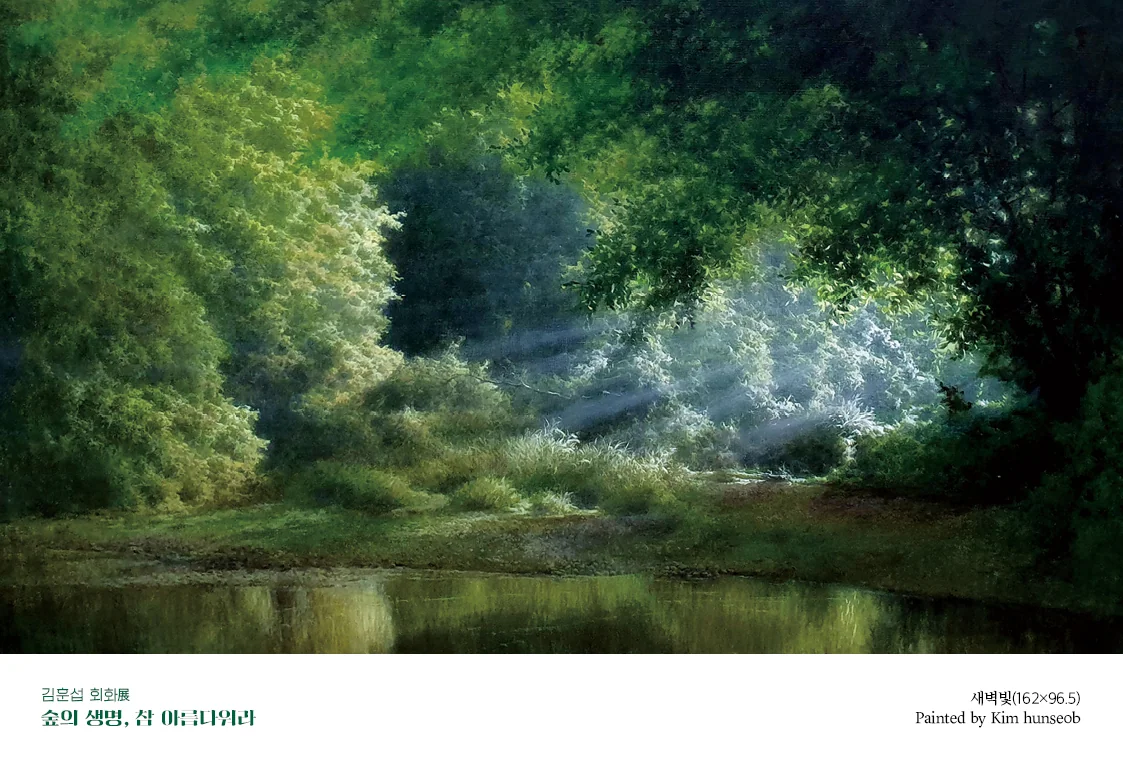
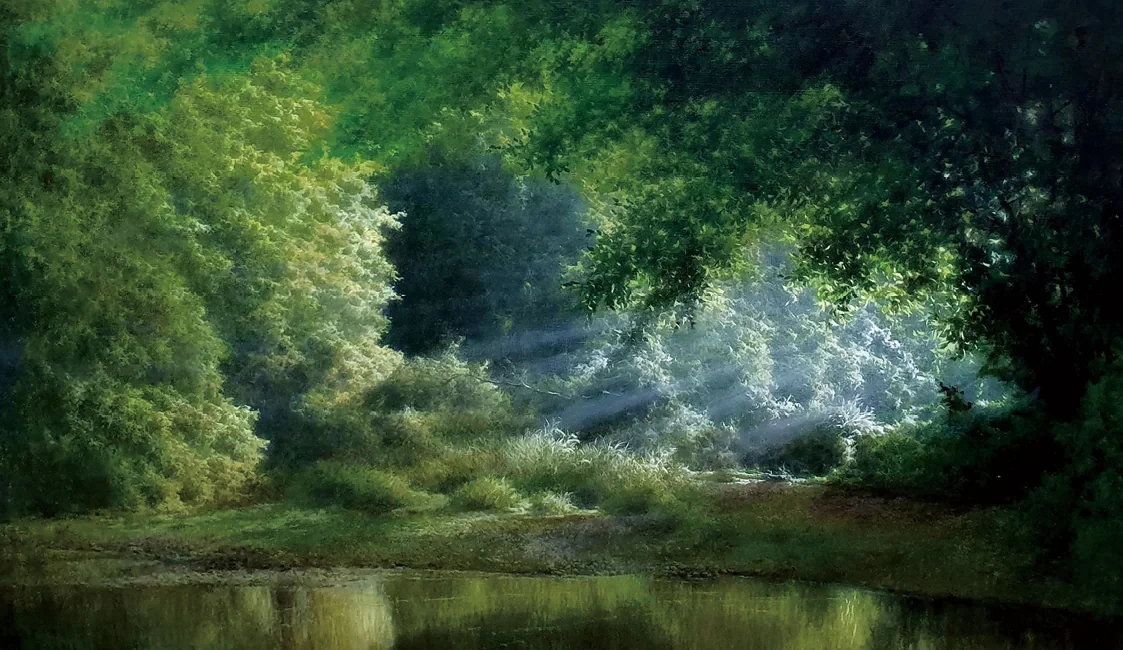
홈 점검: 작가 그리드 확대, 작품 띠 캡션 하단 고정, 상황 이미지 도입(어드민 설정 교체 가능), 캡션 띠 크롭, 저해상 1점 비공개

diff --git a/templates/home.html b/templates/home.html
@@ -26,7 +26,7 @@
     <h2 data-r>한국에서 세계로,<br><span class="kr">세계에서 한국으로.</span></h2>
     <p data-r>문화와 도시의 경계를 넘어 작가·갤러리·기관이 함께 새로운 예술적 대화를 만드는 미래를 지향합니다. 해외 갤러리 및 문화기관과 전시·콘텐츠·작가 교류의 가능성을 엽니다.</p>
     <div class="row">
-      <figure class="clip" data-r><img id="plx" src="{{ img(exhibitions[0].cover if exhibitions else (works[3].image if works|length>3 else ''), 1600) }}" alt=""></figure>
+      <figure class="clip" data-r><img id="plx" src="{{ img(pic('museum'), 1600) }}" alt=""></figure>
       <ul class="stag">
         <li><b>I</b><span>공동 기획 전시 · 프리뷰</span><i>→</i></li>
         <li><b>II</b><span>작가 교류 · 레지던시 연계</span><i>→</i></li>
@@ -41,8 +41,8 @@
   <div class="wrap">
     {{ m.label('02','세 가지 축으로<br>예술을 <em>연결</em>합니다','What We Do','국제 교류, 작가와 작품의 아카이브, 그리고 미술을 배우는 입구. 세 영역이 하나의 생태계로 이어집니다.') }}
     <div class="pillars stag">
-      {% for t_,h,p,href,i in [('Global Exchange','국제 교류','세계의 갤러리와 협력의 가능성을 열어갑니다.',url_for('global_'),0),('Curated Art','작가 · 작품','작가의 작업 세계와 작품의 기록을 소개합니다.',url_for('artists'),1),('Art Academy','아카데미','예술을 배우고 경험하는 새로운 입구를 만듭니다.',url_for('academy'),2)] %}
-      <a class="card" href="{{ href }}"><figure class="clip"><img src="{{ img(works[i+4].image if works|length > i+4 else (works[i].image if works|length > i else ''), 900) }}" alt=""></figure>
+      {% for t_,h,p,href,k in [('Global Exchange','국제 교류','세계의 갤러리와 협력의 가능성을 열어갑니다.',url_for('global_'),'gallery'),('Curated Art','작가 · 작품','작가의 작업 세계와 작품의 기록을 소개합니다.',url_for('artists'),'studio'),('Art Academy','아카데미','예술을 배우고 경험하는 새로운 입구를 만듭니다.',url_for('academy'),'class')] %}
+      <a class="card" href="{{ href }}"><figure class="clip"><img src="{{ img(pic(k), 900) }}" alt=""></figure>
         <div class="t">{{ t_ }}</div><h3>{{ h }}</h3><p>{{ p }}</p><span class="more">자세히 보기 →</span></a>
       {% endfor %}
     </div>
@@ -51,14 +51,14 @@
 
 <section class="sec" id="artists">
   <div class="wrap">
-    {{ m.label('03','주목하는<br>작가와 작품','Artists &amp; Works','작가의 언어, 작품의 맥락, 전시의 기록을 함께 전합니다.','작가 전체 보기',url_for('artists')) }}
-    <div class="artists stag">
+    {{ m.label('03','주목하는<br>작가와 작품','Artists & Works','작가의 언어, 작품의 맥락, 전시의 기록을 함께 전합니다.','작가 전체 보기',url_for('artists')) }}
+    <div class="artists lg stag">
       {% if featured %}
       <a class="feat" href="{{ url_for('artist', slug=featured.slug) }}">
         <figure class="clip"><img src="{{ img(featured.cover or featured.portrait, 1000) }}" alt=""></figure>
         <div class="body">
           <div class="t">Featured Artist</div>
-          <h3>{{ featured.name_ko }} — {{ featured.tagline_ko }}</h3>
+          <h3>{{ featured.name_ko }}{% if featured.tagline_ko %} — {{ featured.tagline_ko }}{% endif %}</h3>
           {% if featured.note_ko %}<blockquote>“{{ featured.note_ko[:90] }}{% if featured.note_ko|length>90 %}…{% endif %}”</blockquote>{% endif %}
           <div class="meta">{{ featured.medium }} &nbsp;|&nbsp; 작품 {{ featured.artworks|length }}점 · 전시 {{ featured.exhibitions|length }}건</div>
           <span class="btn">작가 보기 <span class="ar">→</span></span>
@@ -77,7 +77,7 @@
   </div>
   <div class="track" id="track">
     {% for w in works %}
-    <a class="work" href="{{ url_for('artwork', slug=w.slug) }}"><img src="{{ img(w.image, 900) }}" alt="{{ w.title_ko }}"><div class="i"><b>{{ w.title_ko }}</b><small>{{ m.wmeta(w) }}</small></div></a>
+    <a class="work" href="{{ url_for('artwork', slug=w.slug) }}"><figure><img src="{{ img(w.image, 900) }}" alt="{{ w.title_ko }}"></figure><div class="i"><b>{{ w.title_ko }}</b><small>{{ m.wmeta(w) }}</small></div></a>
     {% endfor %}
   </div>
 </section>

diff --git a/static/site.css b/static/site.css
@@ -179,13 +179,13 @@ body.menu{overflow:hidden}
 .track{display:flex;gap:24px;width:max-content;animation:strip 60s linear infinite}
 .strip:hover .track{animation-play-state:paused}
 @keyframes strip{to{transform:translateX(-50%)}}
-.work{flex:none;height:clamp(240px,32vw,420px);position:relative;overflow:hidden;background:#eee}
-.work img{height:100%;width:auto;display:block;transition:transform 1s var(--ease)}
-.work:hover img{transform:scale(1.05)}
-.work .i{position:absolute;left:0;right:0;bottom:0;padding:40px 16px 14px;background:linear-gradient(transparent,rgba(11,31,61,.85));color:#fff;font-size:13px;opacity:0;transform:translateY(10px);transition:.5s var(--ease)}
-.work:hover .i{opacity:1;transform:none}
+.work{flex:none;display:block}
+.work figure{height:clamp(240px,32vw,420px);overflow:hidden;background:#eee}
+.work figure img{height:100%;width:auto;display:block;transition:transform 1s var(--ease)}
+.work:hover figure img{transform:scale(1.04)}
+.work .i{padding:14px 2px 0;font-size:14px;max-width:420px}
 .work .i b{display:block;font-weight:600}
-.work .i small{opacity:.8}
+.work .i small{color:var(--muted);display:block;margin-top:2px}
 
 /* exhibitions */
 .exhib{display:grid;grid-template-columns:repeat(3,1fr);gap:24px}
@@ -278,7 +278,7 @@ body.menu{overflow:hidden}
   .feat{grid-template-columns:1fr}
   .journal .lead{grid-template-columns:1fr}
   .ftr .wrap{grid-template-columns:1fr 1fr}
-  .work{height:220px}
+  .work figure{height:220px}
 }
 @media (prefers-reduced-motion:reduce){
   *,*::before,*::after{animation:none!important;transition:none!important}
@@ -391,3 +391,8 @@ body.menu{overflow:hidden}
 .thumbs{display:flex;gap:10px;margin-top:12px}
 .thumbs img{width:72px;height:72px;object-fit:cover;cursor:pointer;opacity:.55;border:1px solid transparent;transition:.3s}
 .thumbs img.on,.thumbs img:hover{opacity:1;border-color:var(--p)}
+
+.artists.lg{grid-template-columns:repeat(3,1fr);gap:32px 24px}
+.artists.lg .artist figure{aspect-ratio:4/5}
+.artists.lg .artist h3{font-size:19px;margin-top:16px}
+@media (max-width:900px){.artists.lg{grid-template-columns:1fr 1fr;gap:20px 14px}}

diff --git a/templates/global.html b/templates/global.html
@@ -1,7 +1,7 @@
 {% extends "base.html" %}{% import "_macros.html" as m with context %}
 {% block title %}Global Exchange{% endblock %}
 {% block body %}
-{% call m.phero('K-Art Outbound.<br>Global Art Inbound.', 'Global', 'https://commons.wikimedia.org/wiki/Special:FilePath/Vassily_Kandinsky,_1923_-_Composition_8,_huile_sur_toile,_140_cm_x_201_cm,_Mus%C3%A9e_Guggenheim,_New_York.jpg', '한국 작가의 해외 진출과 해외 작가의 국내 소개가 양방향으로 이루어지는 국제 교류를 지향합니다. 해외 갤러리·큐레이터·기관과 공동 전시, 프리뷰, 콘텐츠, 작가 교류 프로젝트를 제안합니다.', 'Global Exchange') %}
+{% call m.phero('K-Art Outbound.<br>Global Art Inbound.', 'Global', pic('museum'), '한국 작가의 해외 진출과 해외 작가의 국내 소개가 양방향으로 이루어지는 국제 교류를 지향합니다. 해외 갤러리·큐레이터·기관과 공동 전시, 프리뷰, 콘텐츠, 작가 교류 프로젝트를 제안합니다.', 'Global Exchange') %}
 <div class="cta"><a class="btn solid" href="{{ url_for('partnership') }}">국제 협업 제안하기 <span class="ar">→</span></a><a class="btn" href="{{ url_for('academy') }}">프로그램 보기</a></div>
 {% endcall %}
 

diff --git a/templates/media.html b/templates/media.html
@@ -1,7 +1,7 @@
 {% extends "base.html" %}{% import "_macros.html" as m with context %}
 {% block title %}Media{% endblock %}
 {% block body %}
-{% call m.phero('예술 이야기를<br>영상으로 만나다.', 'Media', yt[0].thumb if yt and yt[0].thumb else 'https://commons.wikimedia.org/wiki/Special:FilePath/Van_Gogh_-_Starry_Night_-_Google_Art_Project.jpg', '작가의 작업실에서 전시의 순간까지, 기록하는 예술 현장을 만나보세요. 공식 영상과 짧은 콘텐츠는 각 플랫폼에서 이어집니다.', 'On Screen') %}
+{% call m.phero('예술 이야기를<br>영상으로 만나다.', 'Media', yt[0].thumb if yt and yt[0].thumb else pic('studio'), '작가의 작업실에서 전시의 순간까지, 기록하는 예술 현장을 만나보세요. 공식 영상과 짧은 콘텐츠는 각 플랫폼에서 이어집니다.', 'On Screen') %}
 <div class="cta">
   {% if cfg('youtube') %}<a class="btn solid" href="{{ cfg('youtube') }}" target="_blank" rel="noopener">유튜브에서 보기 <span class="ar">→</span></a>{% endif %}
   {% if cfg('instagram') %}<a class="btn" href="{{ cfg('instagram') }}" target="_blank" rel="noopener">인스타그램 팔로우</a>{% endif %}

diff --git a/templates/mirini.html b/templates/mirini.html
@@ -1,7 +1,7 @@
 {% extends "base.html" %}{% import "_macros.html" as m with context %}
 {% block title %}Mirini Project{% endblock %}
 {% block body %}
-{% call m.phero('처음 만나는 미술,<br>새로운 취향의 시작.', '<a href="'~url_for('academy')~'">Academy</a><span>/</span>Mirini', programs[0].cover if programs else 'https://commons.wikimedia.org/wiki/Special:FilePath/Gustav_Klimt_016.jpg', '미린이는 미술을 어렵게 느끼는 사람을 위해 배우고, 작가를 만나고, 자신만의 관점을 나누는 예술 입문 프로젝트입니다. 미술은 아는 만큼 가까워집니다.', 'Mirini Project') %}
+{% call m.phero('처음 만나는 미술,<br>새로운 취향의 시작.', '<a href="'~url_for('academy')~'">Academy</a><span>/</span>Mirini', pic('mentor'), '미린이는 미술을 어렵게 느끼는 사람을 위해 배우고, 작가를 만나고, 자신만의 관점을 나누는 예술 입문 프로젝트입니다. 미술은 아는 만큼 가까워집니다.', 'Mirini Project') %}
 <div class="cta"><a class="btn solid" href="{{ url_for('contact', kind='academy') }}">참여 문의 <span class="ar">→</span></a></div>
 {% endcall %}
 

diff --git a/templates/partnership.html b/templates/partnership.html
@@ -1,7 +1,7 @@
 {% extends "base.html" %}{% import "_macros.html" as m with context %}
 {% block title %}Partnership{% endblock %}
 {% block body %}
-{{ m.phero('세계의 갤러리와 함께<br>새로운 예술적 기회를 만듭니다.', '<a href="'~url_for('global_')~'">Global</a><span>/</span>Partnership', 'https://commons.wikimedia.org/wiki/Special:FilePath/Paul_Klee,_Swiss_-_Fish_Magic_-_Google_Art_Project.jpg', '국제 공동 기획과 작가 교류, 큐레이터 대화, 교육·콘텐츠 공동 제작을 위한 제안을 기다립니다. 파트너의 정체성과 작가의 예술적 가치를 존중하는 장기적 협력을 추구합니다.', 'Partnership') }}
+{{ m.phero('세계의 갤러리와 함께<br>새로운 예술적 기회를 만듭니다.', '<a href="'~url_for('global_')~'">Global</a><span>/</span>Partnership', pic('gallery'), '국제 공동 기획과 작가 교류, 큐레이터 대화, 교육·콘텐츠 공동 제작을 위한 제안을 기다립니다. 파트너의 정체성과 작가의 예술적 가치를 존중하는 장기적 협력을 추구합니다.', 'Partnership') }}
 
 <section class="sec">
   <div class="wrap">

diff --git a/templates/academy.html b/templates/academy.html
@@ -1,7 +1,7 @@
 {% extends "base.html" %}{% import "_macros.html" as m with context %}
 {% block title %}Academy{% endblock %}
 {% block body %}
-{% call m.phero('예술을 아는 즐거움,<br>삶에 스며드는 경험.', 'Academy', programs[0].cover if programs else 'https://commons.wikimedia.org/wiki/Special:FilePath/Vincent_van_Gogh_-_Almond_blossom_-_Google_Art_Project.jpg', '미술을 처음 접하는 사람부터 더 깊이 이해하고자 하는 관객까지, 작품을 바라보는 눈과 자신만의 언어를 키우는 프로그램을 제안합니다.', 'Academy') %}
+{% call m.phero('예술을 아는 즐거움,<br>삶에 스며드는 경험.', 'Academy', pic('class'), '미술을 처음 접하는 사람부터 더 깊이 이해하고자 하는 관객까지, 작품을 바라보는 눈과 자신만의 언어를 키우는 프로그램을 제안합니다.', 'Academy') %}
 <div class="cta"><a class="btn solid" href="#programs">프로그램 보기 <span class="ar">→</span></a><a class="btn" href="{{ url_for('contact', kind='academy') }}">참가 문의</a></div>
 {% endcall %}
 

diff --git a/templates/about.html b/templates/about.html
@@ -1,7 +1,7 @@
 {% extends "base.html" %}{% import "_macros.html" as m with context %}
 {% block title %}About{% endblock %}
 {% block body %}
-{{ m.phero('예술을 연결하는 일,<br>여기서 시작합니다.', 'About', cfg('about_image') or 'https://commons.wikimedia.org/wiki/Special:FilePath/Georges_Seurat_-_A_Sunday_on_La_Grande_Jatte_--_1884_-_Google_Art_Project.jpg', '일조원갤러리의 전시·큐레이션 경험과 WON ART의 창작 현장 네트워크를 바탕으로, 작가와 컬렉터, 갤러리와 기관, 예술을 처음 만나는 사람을 연결하는 통합 미술 플랫폼을 지향합니다.', 'Who we are') }}
+{{ m.phero('예술을 연결하는 일,<br>여기서 시작합니다.', 'About', pic('gallery'), '일조원갤러리의 전시·큐레이션 경험과 WON ART의 창작 현장 네트워크를 바탕으로, 작가와 컬렉터, 갤러리와 기관, 예술을 처음 만나는 사람을 연결하는 통합 미술 플랫폼을 지향합니다.', 'Who we are') }}
 
 <section class="sec">
   <div class="wrap">

diff --git a/templates/base.html b/templates/base.html
@@ -69,7 +69,8 @@
         {% if cfg('youtube') %}<a href="{{ cfg('youtube') }}" target="_blank" rel="noopener">YouTube</a>{% else %}YouTube{% endif %} ·
         {% if cfg('instagram') %}<a href="{{ cfg('instagram') }}" target="_blank" rel="noopener">Instagram</a>{% else %}Instagram{% endif %}
       </li></ul></div>
-    <div class="bot"><span>© {{ today.year }} {{ cfg('site_name','CHEONGYEON') }}. All rights reserved.</span><span>개인정보처리방침 · 이용약관 · KR / EN</span></div>
+    <div class="bot"><span>© {{ today.year }} {{ cfg('site_name','CHEONGYEON') }}. All rights reserved.</span><span>개인정보처리방침 · 이용약관 · KR / EN</span>
+      {% if not cfg('img_gallery') %}<span style="flex-basis:100%;font-size:11px;opacity:.6">공간·수업 사진은 임시 자료입니다 (Wikimedia Commons, CC BY / Public Domain).</span>{% endif %}</div>
   </div>
 </footer>
 <script src="{{ url_for('static', filename='site.js') }}"></script>

diff --git a/templates/contact.html b/templates/contact.html
@@ -1,7 +1,7 @@
 {% extends "base.html" %}{% import "_macros.html" as m with context %}
 {% block title %}Contact{% endblock %}
 {% block body %}
-{{ m.phero('새로운 예술적 대화를<br>기다립니다.', 'Contact', 'https://commons.wikimedia.org/wiki/Special:FilePath/Claude_Monet_-_Water_Lilies_-_1906,_Ryerson.jpg', '국제 협업, 작가·작품 관련 문의, 아카데미 참여 및 일반 제안을 남겨주세요. 담당자가 접수 내용을 확인해 순차적으로 연락드립니다.', 'Contact') }}
+{{ m.phero('새로운 예술적 대화를<br>기다립니다.', 'Contact', pic('studio'), '국제 협업, 작가·작품 관련 문의, 아카데미 참여 및 일반 제안을 남겨주세요. 담당자가 접수 내용을 확인해 순차적으로 연락드립니다.', 'Contact') }}
 
 <section class="sec">
   <div class="wrap">

diff --git a/seed.py b/seed.py
@@ -2,7 +2,7 @@
 실행: python seed.py  (기존 DB 삭제 후 재생성)"""
 import os
 from datetime import date, timedelta
-from app import app
+from app import app, PICS as PIC
 from models import db, Artist, Artwork, Exhibition, Program, Journal, Media, SiteConfig
 
 W = "https://commons.wikimedia.org/wiki/Special:FilePath/"
@@ -76,10 +76,10 @@ with app.app_context():
                    location="일조원갤러리", cover=IMG["kiss"], artists=[a5], status=P, body_ko="[지난 전시 기록 — 승인 문안으로 교체]"),
     ])
     db.session.add_all([
-        Program(slug="mirini-101", title_ko="미린이 101 · 처음 만나는 미술", category="mirini", audience="입문", schedule="격주 토요일 · 4회", cover=IMG["almond"], summary_ko="LEARN · MEET · MAKE · SHARE", status=P, sort=0),
-        Program(slug="mirini-201", title_ko="미린이 201 · 작품을 읽는 법", category="mirini", audience="입문 수료자", schedule="매월 1회", cover=IMG["cezanne"], summary_ko="한 작품을 이해하는 세 가지 질문", status=P, sort=1),
-        Program(slug="artist-talk", title_ko="작가와의 만남", category="talk", audience="누구나", schedule="전시 기간 중", cover=IMG["gris"], summary_ko="작업실에서 듣는 작품의 시작", status=P, sort=2),
-        Program(slug="lecture-series", title_ko="렉처 시리즈 · 국제 미술 현장", category="lecture", audience="누구나", schedule="분기 1회", cover=IMG["kandinsky"], summary_ko="한국과 세계가 만나는 아트 현장", status=P, sort=3),
+        Program(slug="mirini-101", title_ko="미린이 101 · 처음 만나는 미술", category="mirini", audience="입문", schedule="격주 토요일 · 4회", cover=PIC["class"], summary_ko="LEARN · MEET · MAKE · SHARE", status=P, sort=0),
+        Program(slug="mirini-201", title_ko="미린이 201 · 작품을 읽는 법", category="mirini", audience="입문 수료자", schedule="매월 1회", cover=PIC["museum"], summary_ko="한 작품을 이해하는 세 가지 질문", status=P, sort=1),
+        Program(slug="artist-talk", title_ko="작가와의 만남", category="talk", audience="누구나", schedule="전시 기간 중", cover=PIC["studio"], summary_ko="작업실에서 듣는 작품의 시작", status=P, sort=2),
+        Program(slug="lecture-series", title_ko="렉처 시리즈 · 국제 미술 현장", category="lecture", audience="누구나", schedule="분기 1회", cover=PIC["gallery"], summary_ko="한국과 세계가 만나는 아트 현장", status=P, sort=3),
     ])
     db.session.add_all([
         Journal(slug="interview-hokusai", title_ko="[인터뷰] 파도 하나에 세계를 담다", category="interview", date=T - timedelta(days=8), cover=IMG["wave"], artist=a1, status=P,
@@ -93,14 +93,14 @@ with app.app_context():
     ])
     # 영상: video_id는 샘플(교체 필요). thumb 없으면 YouTube 썸네일 사용
     db.session.add_all([
-        Media(slug="in-the-studio-1", platform="youtube", series="IN THE STUDIO", title_ko="작가의 공간에서 발견하는 작품의 시작", video_id="", url="#", thumb=IMG["starry"], date=T - timedelta(days=5), artist=a2, status=P),
-        Media(slug="one-work-1", platform="youtube", series="ONE WORK, ONE STORY", title_ko="한 작품을 이해하는 세 가지 질문", video_id="", url="#", thumb=IMG["wave"], date=T - timedelta(days=12), artist=a1, status=P),
-        Media(slug="exhibition-notes-1", platform="youtube", series="EXHIBITION NOTES", title_ko="전시가 만들어지는 순간", video_id="", url="#", thumb=IMG["scream"], date=T - timedelta(days=20), status=P),
-        Media(slug="mirini-class-1", platform="youtube", series="MIRINI CLASS", title_ko="처음 미술을 보는 사람을 위한 5분", video_id="", url="#", thumb=IMG["almond"], date=T - timedelta(days=28), status=P),
-        Media(slug="reel-1", platform="instagram", series="Reels", title_ko="설치 전경 타임랩스", url="#", thumb=IMG["kiss"], date=T - timedelta(days=3), status=P),
-        Media(slug="reel-2", platform="instagram", series="Reels", title_ko="작가 토크 하이라이트", url="#", thumb=IMG["gris"], date=T - timedelta(days=6), status=P),
-        Media(slug="reel-3", platform="instagram", series="Reels", title_ko="미린이 101 현장", url="#", thumb=IMG["cezanne"], date=T - timedelta(days=9), status=P),
-        Media(slug="reel-4", platform="instagram", series="Reels", title_ko="오프닝 스케치", url="#", thumb=IMG["klee"], date=T - timedelta(days=14), status=P),
+        Media(slug="in-the-studio-1", platform="youtube", series="IN THE STUDIO", title_ko="작가의 공간에서 발견하는 작품의 시작", video_id="", url="#", thumb=PIC["studio"], date=T - timedelta(days=5), artist=a2, status=P),
+        Media(slug="one-work-1", platform="youtube", series="ONE WORK, ONE STORY", title_ko="한 작품을 이해하는 세 가지 질문", video_id="", url="#", thumb=PIC["museum"], date=T - timedelta(days=12), artist=a1, status=P),
+        Media(slug="exhibition-notes-1", platform="youtube", series="EXHIBITION NOTES", title_ko="전시가 만들어지는 순간", video_id="", url="#", thumb=PIC["gallery"], date=T - timedelta(days=20), status=P),
+        Media(slug="mirini-class-1", platform="youtube", series="MIRINI CLASS", title_ko="처음 미술을 보는 사람을 위한 5분", video_id="", url="#", thumb=PIC["class"], date=T - timedelta(days=28), status=P),
+        Media(slug="reel-1", platform="instagram", series="Reels", title_ko="설치 전경 타임랩스", url="#", thumb=PIC["gallery"], date=T - timedelta(days=3), status=P),
+        Media(slug="reel-2", platform="instagram", series="Reels", title_ko="작가 토크 하이라이트", url="#", thumb=PIC["mentor"], date=T - timedelta(days=6), status=P),
+        Media(slug="reel-3", platform="instagram", series="Reels", title_ko="미린이 101 현장", url="#", thumb=PIC["class"], date=T - timedelta(days=9), status=P),
+        Media(slug="reel-4", platform="instagram", series="Reels", title_ko="오프닝 스케치", url="#", thumb=PIC["studio"], date=T - timedelta(days=14), status=P),
     ])
     for k, v in {"site_name": "CHEONGYEON", "tagline": "한국의 예술적 자산을 세계와 잇고, 세계의 다양한 예술적 시선을 한국에 소개하는 아트·교류·교육 플랫폼.",
                  "email": "", "phone": "", "address": "", "youtube": "", "instagram": ""}.items():

diff --git a/app.py b/app.py
@@ -9,6 +9,16 @@ load_dotenv()
 BASE = os.path.dirname(os.path.abspath(__file__))
 LANGS = ("ko", "en")
 
+# 상황 이미지 기본값 (발주처 사진 수급 전 임시 · Wikimedia Commons CC BY / PD). 어드민 사이트 설정에서 URL 교체.
+PICS = {
+    "gallery": "https://commons.wikimedia.org/wiki/Special:FilePath/" + "Gallery_of_Polish_Painting_and_European_Decorative_Arts,_National_Museum_in_Kielce,_czerwiec_2025,_SOULinPIX_092.jpg",
+    "museum":  "https://commons.wikimedia.org/wiki/Special:FilePath/" + "Visitors_looking_at_italian_paintings_in_the_Louvre_Museum_-_Paris,_France,_2019_49.jpg",
+    "studio":  "https://commons.wikimedia.org/wiki/Special:FilePath/" + "DFC_5422_An_artist_at_work_in_a_lively_studio_in_Pattaya_surrounded_by_colorful_paintings_as_he_adds_finishing_touches_to_a_vibrant_floral_canvas.jpg",
+    "class":   "https://commons.wikimedia.org/wiki/Special:FilePath/" + "USMC-100519-M-9780H-005.jpg",
+    "mentor":  "https://commons.wikimedia.org/wiki/Special:FilePath/" + "USMC-100519-M-9780H-017.jpg",
+}
+
+
 app = Flask(__name__)
 app.config.update(
     SECRET_KEY=os.getenv("SECRET_KEY", "dev-secret"),
@@ -44,7 +54,8 @@ def ctx():
         return url_for("static", filename="uploads/" + v)
     def t(obj, field):  # 언어별 필드: en 없으면 ko 폴백
         return getattr(obj, f"{field}_{g.lang}", None) or getattr(obj, f"{field}_ko", "")
-    return dict(img=img, t=t, cfg=SiteConfig.get, lang=g.get("lang", "ko"), today=date.today())
+    def pic(key): return SiteConfig.get("img_" + key) or PICS[key]
+    return dict(img=img, t=t, pic=pic, cfg=SiteConfig.get, lang=g.get("lang", "ko"), today=date.today())
 
 
 @app.route("/")
@@ -56,7 +67,7 @@ def root(): return redirect("/ko")
 def home():
     return render_template("home.html",
         featured=Artist.live().filter_by(featured=True).first(),
-        artists=Artist.live().limit(4).all(),
+        artists=Artist.live().filter(Artist.featured.is_(False)).limit(6).all(),
         works=Artwork.live().filter(Artwork.image.isnot(None)).limit(8).all(),
         exhibitions=Exhibition.live().limit(3).all(),
         programs=Program.live().limit(3).all(),
